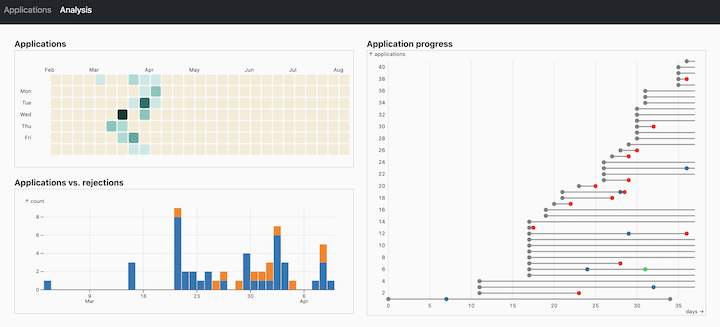
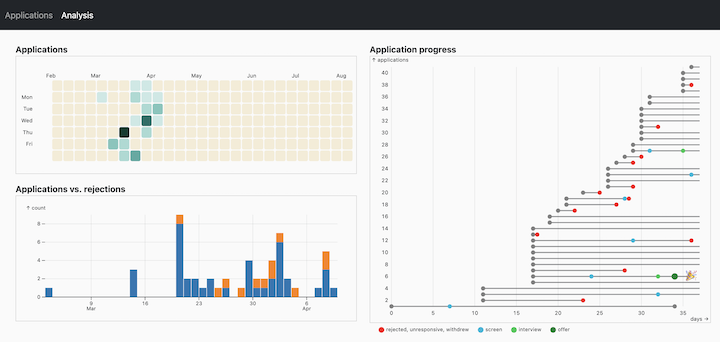
progress chart: added remaining statuses, added legend.

diff --git a/frontend/src/components/analytics/ApplicationProgress.tsx b/frontend/src/components/analytics/ApplicationProgress.tsx
@@ -45,9 +45,6 @@ const ApplicationProgress = ({ applications }: ComponentProps) => {
                 }
 
                 // merge all interview statuses into just "interview"
-                if (appData["interview1"]) {
-                    appData["interview"] = appData["interview1"];
-                }
                 for (const interviewStatus of ["interview1", "interview2", "interview3", "interview4", "interview5"]) {
                     if (appData[interviewStatus as ApplicationStatusId]) {
                         appData["interview"] = appData[interviewStatus as ApplicationStatusId];
@@ -66,8 +63,6 @@ const ApplicationProgress = ({ applications }: ComponentProps) => {
                 return appData;
             });
 
-            // console.log(`plotData: ${JSON.stringify(plotData, null, 2)}`); //JOE
-
             const plot = Plot.plot({
                 y: {
                     label: "applications",
@@ -79,11 +74,8 @@ const ApplicationProgress = ({ applications }: ComponentProps) => {
                     grid: true,
                     tickSize: 0,
                 },
-                color: { scheme: "Category10" },
                 height: 500, //TODO revisit this. hardcoded for now.
                 marks: [
-                    // Plot.tickY([0,applications.length+1]),
-                    // Plot.tickX([0,overallDays]),
                     Plot.ruleY(plotData, {
                         x1: "applied",
                         x2: "endDays",
@@ -91,18 +83,41 @@ const ApplicationProgress = ({ applications }: ComponentProps) => {
                         strokeOpacity: 0.5,
                         strokeWidth: 2,
                     }),
+
                     Plot.dot(plotData, { x: "applied", y: "applicationNumber", title: "companyName", r: 4, fill: "gray" }),
-                    Plot.dot(plotData, { x: "initialScreen", y: "applicationNumber", r: 4, fill: "#007595" }),
-                    Plot.dot(plotData, { x: "interview", y: "applicationNumber", r: 4, fill: "#00c950" }),
-                    Plot.dot(plotData, { x: "offer", y: "applicationNumber", r: 4, fill: "#008236" }),
-                    //TODO: account for other statuses. Something fun like icon or emoji for offers? Or just bigger?
+                    Plot.dot(plotData, { x: "initialScreen", y: "applicationNumber", r: 4, fill: "#00b8db" }), // cyan 500
+                    Plot.dot(plotData, { x: "interview", y: "applicationNumber", r: 4, fill: "#00c950" }), // green 500
+                    Plot.dot(plotData, { x: "offered", y: "applicationNumber", r: 6, fill: "#008236" }), // green 700, bigger
+                    Plot.text(plotData, { x: "acceptedOffer", y: "applicationNumber", fontSize: 20, text: () => "🎉" }),
                     Plot.dot(plotData, { x: "rejected", y: "applicationNumber", r: 4, fill: "red" }),
                     Plot.dot(plotData, { x: "withdrew", y: "applicationNumber", r: 4, fill: "red" }),
+                    Plot.dot(plotData, { x: "declinedOffer", y: "applicationNumber", r: 4, fill: "red" }),
                     Plot.dot(plotData, { x: "unresponsive", y: "applicationNumber", r: 4, fill: "gray" }),
-
-                    //TODO: add a legend?
+                    Plot.dot(plotData, { x: "applicationIgnored", y: "applicationNumber", r: 4, fill: "gray" }),
                 ],
             });
+
+            // Gave up (for now) on creating a custom legend with Plot. Use basic jsx below instead.
+            // const legendData = [
+            //     { x: 1, y: 0, color: "#00b8db", text: "screen" },
+            //     { x: 2, y: 0, color: "#00c950", text: "interview" },
+            //     { x: 3, y: 0, color: "#008236", text: "offer" },
+            // ];
+            // const legend = Plot.plot({
+            //     height: 50,
+            //     x: {
+            //         label: null,
+            //         tickPadding: 6,
+            //         tickSize: 0,
+            //         // domain: [0, 0.1, 1, 1.1, 2, 2.1],
+            //         type: "linear",
+            //         range: [0,500],
+            //     },
+            //     marks: [
+            //         Plot.dot(legendData, { x: (d) => d.x, y: () => 0, r: 4, fill: (d) => d.color }),
+            //         Plot.text(legendData, { x: (d) => d.x+.1, y: () => 0, text: (d) => d.text }),
+            //     ],
+            // });
 
             plot.style.border = "1px solid lightgray";
 
@@ -112,7 +127,17 @@ const ApplicationProgress = ({ applications }: ComponentProps) => {
         }
     }, [applications]);
 
-    return <div ref={containerRef} />;
+    return (
+        <div>
+            <div ref={containerRef} />
+            <div style={{ fontSize: ".6rem", paddingTop: 5 }}>
+                <span style={{ color: "red", paddingLeft: "1rem" }}>⬤</span> rejected, unresponsive, withdrew
+                <span style={{ color: "#00b8db", paddingLeft: "1rem" }}>⬤</span> screen
+                <span style={{ color: "#00c950", paddingLeft: "1rem" }}>⬤</span> interview
+                <span style={{ color: "#008236", paddingLeft: "1rem" }}>⬤</span> offer
+            </div>
+        </div>
+    );
 };
 
 export default ApplicationProgress;
